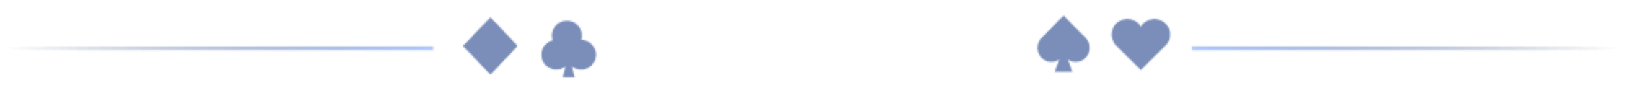
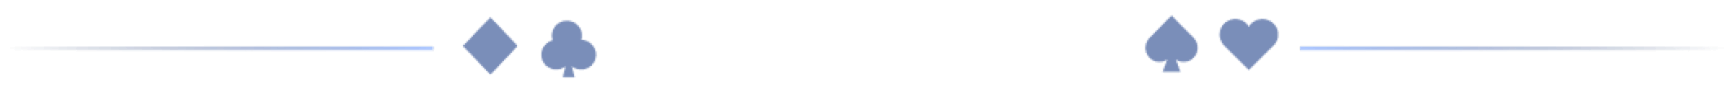
feat: [lk6 h5] Adjust en promo title img

Changed region(s): [[0.246, 0.2045, 0.369, 0.8864], [0.615, 0.1818, 0.7688, 0.8409]]

diff --git a/lk6-static-h5/src/components/HotPromotion.vue b/lk6-static-h5/src/components/HotPromotion.vue
@@ -466,7 +466,7 @@ export default defineComponent({
   &.en {
     .title-img {
       background-image: url("../assets/images/promotion/hotpromo/common/section-title-img-lg.png");
-      background-size: 535px 26px;
+      background-size: 580px 26px;
     }
   }
 
